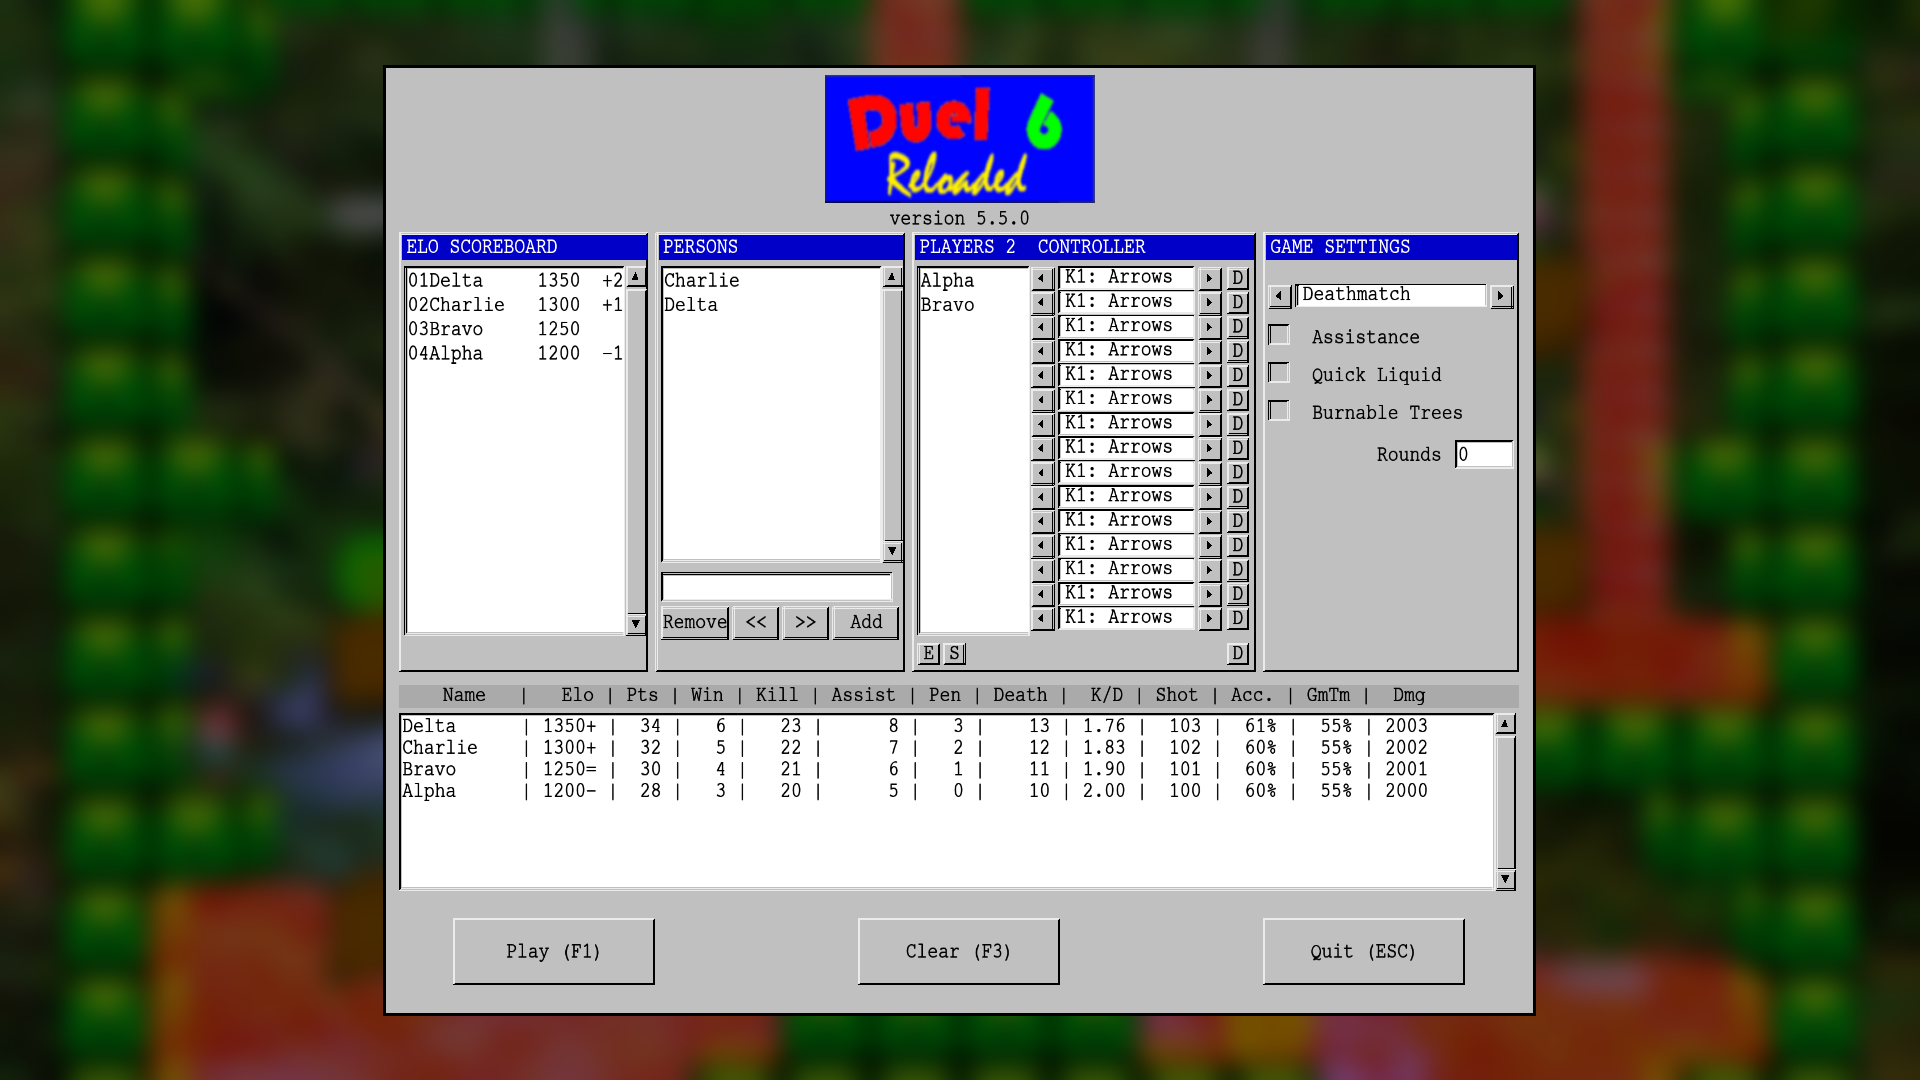
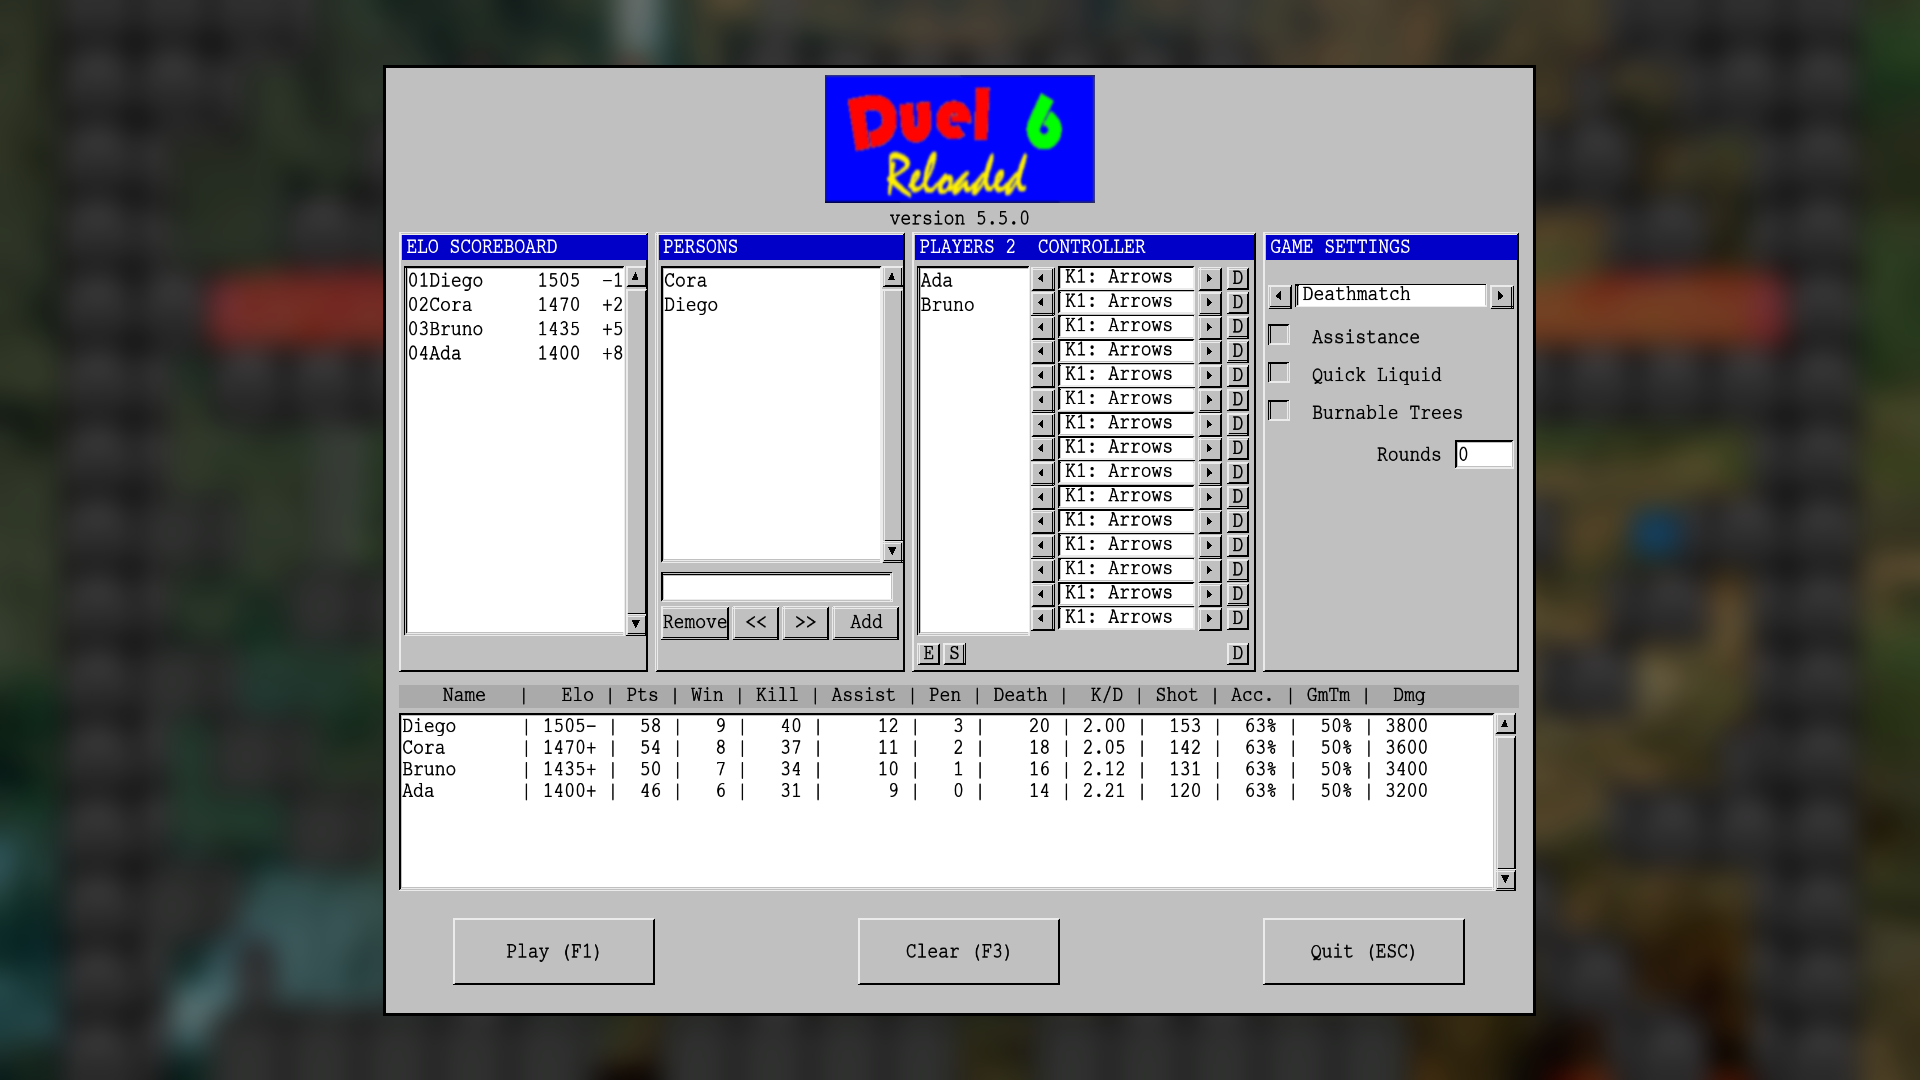
Docs: Recapture async menu screenshots

diff --git a/docs/screenshots/README.md b/docs/screenshots/README.md
@@ -6,9 +6,8 @@ This manifest requires exactly one representative implementation screenshot for 
 The 2026-08-26 approved menu presentation affects `MENU-01`, `MENU-02`, and `CONS-01`.
 It preserves the retro logical layout while adding uniform responsive scaling, a session-persistent blurred and scrimmed gameplay still, and a canvas keyline.
 The previously conforming `MENU-01/default-1706x938.png`, `MENU-02/confirmation-1706x938.png`, and `CONS-01/open-1706x938.png` artifacts are now stale historical evidence and are not representative matrix artifacts.
-`SS-001`, `SS-002`, and `SS-013` require replacement captures at 1920 by 1080 from one application session.
+`SS-001`, `SS-002`, and `SS-013` were recaptured at 1920 by 1080 in one application session against the current asynchronous background implementation and await UX assessment.
 The other eight representative screenshots remain current because gameplay presentation is unchanged.
-UX assessed the three 1920 by 1080 replacement captures and confirmed that the visual gate is satisfied.
 The obsolete `PLAY-02`, `PLAY-03`, and `PLAY-04` artifacts are not evidence and are not in this manifest.
 
 ## Provenance requirements
@@ -66,19 +65,20 @@ The PR #23 Burnable Trees packet has this provenance:
 - Artifact paths: `MENU-01/default-1706x938.png`, `MENU-02/confirmation-1706x938.png`, and `CONS-01/open-1706x938.png` under this directory.
 - Status: stale after the 2026-08-26 menu presentation approval; retained only as historical evidence.
 
-The approved scaled-background replacement packet was captured with this shared setup:
+The current scaled-background replacement packet was captured with this shared setup:
 
 - Branch: `feature/menu-presentation`.
-- Implementation source SHA: `52ebf231d125369789e785cf9df34e3ae44c7987`.
+- Implementation source SHA: `b7fea416527b418d8fbe7125e646e3f904c0c360`.
 - Environment: Release, GL4, Lua enabled, Ubuntu 24.04 Docker image, Mesa software rendering, and Xvfb at 1920 by 1080.
-- Runtime setup: one application session with four saved people, two selected players, persistent score data, Deathmatch, Assistance on, Quick Liquid on, Burnable Trees on, and Rounds `0`.
-- Session workflow: capture `MENU-01`, press F3 or select Clear for `MENU-02`, dismiss with `N`, then open the console for `CONS-01`, without restarting.
+- Viewport: 1920 by 1080 px.
+- Runtime setup: one application session with saved people Ada, Bruno, Cora, and Diego; Ada and Bruno selected; persistent Elo and score data; Deathmatch; Assistance on; Quick Liquid on; Burnable Trees on; and Rounds `0`.
+- Session workflow: the first observable menu render showed the responsive menu over the black loading background; F3 input produced the confirmation while asynchronous preparation completed, changing 985723 pixels from the initial capture. After dismissing with `N` and waiting for the selected background diagnostic, capture `MENU-01`, press F3 for `MENU-02`, dismiss with `N`, then open the console with an empty input for `CONS-01`, without restarting.
 - Worktree state: clean at the implementation source SHA before capture; the ignored Docker-built runtime bundle was present.
-- Session identifier: `MENU-PRESENTATION-20260826-A`.
-- Selected asset filename: `jungle-channel.png`, identified through the non-user-facing menu startup diagnostic and verified against the visible color family.
+- Session identifier: `MENU-PRESENTATION-20260826-B`.
+- Selected asset filename: `forest-foundry.png`, recorded by the visible menu startup diagnostic in `CONS-01`.
 - Runtime asset manifest revision: `81e364c8477c1b1cdbe90563812a90592d12cfea`.
 - Capture artifacts: `MENU-01/default-scaled-background-1920x1080.png`, `MENU-02/confirmation-scaled-background-1920x1080.png`, and `CONS-01/open-scaled-background-1920x1080.png` under this directory.
-- Assessment status: UX assessed the replacement packet and confirmed conformance.
+- Assessment status: recaptured against the current implementation; independent UX assessment is pending.
 
 The fresh shared-arena packet has this provenance:
 
@@ -103,8 +103,8 @@ The replacement shared-arena artifacts have this provenance:
 
 | ID | Screen ID | Wireframe | Route or workflow | Representative state and setup data | Viewport | Expected visible behavior | Destination path | Provenance and status |
 |---|---|---|---|---|---:|---|---|---|
-| <a id="ss-001"></a>`SS-001` | `MENU-01` | [Main menu](../screens/wireframes/menu-main.md) | Launch the local application to the setup menu. | Use four saved people, two selected players, Deathmatch, persistent score data, Assistance on, Quick Liquid on, Burnable Trees on, and Rounds `0`. | 1920x1080 | The logical canvas must render centered at the 135% cap over a blurred centered-cover gameplay still with a 55% black scrim. The grey canvas and 2-logical-pixel black keyline must remain distinct and unblurred. All menu content and bounds must scale together. | `docs/screenshots/MENU-01/default-scaled-background-1920x1080.png` | Captured in session `MENU-PRESENTATION-20260826-A` with `jungle-channel.png`; provenance above. UX confirmed the replacement packet. `Conforms`. |
-| <a id="ss-002"></a>`SS-002` | `MENU-02` | [Menu message](../screens/wireframes/menu-message.md) | Select Clear or press F3 from the populated menu in the same `SS-001` session. | Use the `SS-001` setup and show `Really delete? (Y/N)` over the unchanged menu. | 1920x1080 | The same image and scaled menu must remain unchanged behind the centered strip. The short confirmation must stay on one line and scale with the menu. | `docs/screenshots/MENU-02/confirmation-scaled-background-1920x1080.png` | Captured in session `MENU-PRESENTATION-20260826-A` with `jungle-channel.png`; provenance above. UX confirmed the replacement packet. `Conforms`. |
+| <a id="ss-001"></a>`SS-001` | `MENU-01` | [Main menu](../screens/wireframes/menu-main.md) | Launch the local application to the setup menu. | Use four saved people, two selected players, Deathmatch, persistent score data, Assistance on, Quick Liquid on, Burnable Trees on, and Rounds `0`. | 1920x1080 | The logical canvas must render centered at the 135% cap over a blurred centered-cover gameplay still with a 55% black scrim. The grey canvas and 2-logical-pixel black keyline must remain distinct and unblurred. All menu content and bounds must scale together. | `docs/screenshots/MENU-01/default-scaled-background-1920x1080.png` | Captured in session `MENU-PRESENTATION-20260826-B` with `forest-foundry.png`; provenance above. Independent UX assessment is pending. `Pending assessment`. |
+| <a id="ss-002"></a>`SS-002` | `MENU-02` | [Menu message](../screens/wireframes/menu-message.md) | Select Clear or press F3 from the populated menu in the same `SS-001` session. | Use the `SS-001` setup and show `Really delete? (Y/N)` over the unchanged menu. | 1920x1080 | The same image and scaled menu must remain unchanged behind the centered strip. The short confirmation must stay on one line and scale with the menu. | `docs/screenshots/MENU-02/confirmation-scaled-background-1920x1080.png` | Captured in session `MENU-PRESENTATION-20260826-B` with `forest-foundry.png`; provenance above. Independent UX assessment is pending. `Pending assessment`. |
 | <a id="ss-003"></a>`SS-003` | `PLAY-01` | [Shared arena play](../screens/wireframes/play-fullscreen.md) | Start a local Deathmatch and press F2 once during live play. | Use 15 living players, ranking on, a finite round limit, and a state after the start fade. | 1280x900 | One undivided arena must show the whole level and all 15 players. F2 must not change the view. Live ranking, round progress, event messages, and player status must remain available. | `docs/screenshots/PLAY-01/shared-15-player-1280x900.png` | Replacement packet provenance above. Captured from an actual 15-player Deathmatch with ranking enabled and three rounds after pressing F2 once. `Conforms`. |
 | <a id="ss-007"></a>`SS-007` | `MODE-01` | [Predator](../screens/wireframes/mode-predator.md) | Start Predator from the menu. | Use three living players, one predator, ranking on, and a finite round limit. | 1280x900 | One undivided arena must show the faint predator body, visible predator weapon, opaque marines, live ranking, round progress, events, and status cues. | `docs/screenshots/MODE-01/shared-live-1280x900.png` | Fresh shared-arena packet provenance above. `Conforms`. |
 | <a id="ss-008"></a>`SS-008` | `MODE-02` | [Team mode](../screens/wireframes/mode-team.md) | Start `Team deathmatch (2 teams, FF: off)` from the menu. | Use two living players per team, ranking on, and a finite round limit. | 1280x900 | One undivided arena must show all four players. Team apparel and named grouped ranking must remain visible with events, status cues, and round progress. | `docs/screenshots/MODE-02/shared-live-1280x900.png` | Replacement packet provenance above. Captured from an actual four-player `Team deathmatch (2 teams, FF: off)` with two players per team, grouped live ranking, and three rounds. `Conforms`. |
@@ -112,19 +112,19 @@ The replacement shared-arena artifacts have this provenance:
 | <a id="ss-010"></a>`SS-010` | `OVER-01` | [Score tab](../screens/wireframes/overlay-score-tab.md) | Press Tab during a live Team deathmatch round. | Use four players in two teams with non-zero K, A, D, K/D, and PTS values. | 1280x900 | The centered score panel must show grouped team rows over one undivided live arena. The winner curtain must not appear. | `docs/screenshots/OVER-01/shared-score-tab-1280x900.png` | Replacement packet provenance above. Captured by pressing Tab during round 5 of an actual four-player Team deathmatch after normal runtime play produced grouped team rows and non-zero K, A, D, K/D, and PTS values; no winner curtain is present. `Conforms`. |
 | <a id="ss-011"></a>`SS-011` | `OVER-02` | [Round over](../screens/wireframes/overlay-round-over.md) | Finish round 1 of a two-round Predator match. | Use one winning predator and three ranked players. | 1280x900 | The Predator outcome message, dark red curtain, round counter, and centered score panel must appear over one undivided arena. | `docs/screenshots/OVER-02/shared-round-over-1280x900.png` | Replacement packet provenance above. Captured after an actual predator won round 1 of a two-round, three-player Predator match; the runtime emitted `Predator won!` and opened the score panel and curtain. `Conforms`. |
 | <a id="ss-012"></a>`SS-012` | `OVER-03` | [Game over](../screens/wireframes/overlay-game-over.md) | Finish the only round of a one-round Team deathmatch. | Use two teams, four ranked players, and one winning team. | 1280x900 | The Team outcome, final score panel, dark red curtain, and final round progress must appear over one undivided arena. The state must not add an exit label. | `docs/screenshots/OVER-03/shared-game-over-1280x900.png` | Replacement packet provenance above. Captured after Team Bravo won the only round of an actual four-player Team deathmatch; the final grouped score panel, dark red curtain, and `1 | 1` round progress are visible without an exit label. `Conforms`. |
-| <a id="ss-013"></a>`SS-013` | `CONS-01` | [Console over menu](../screens/wireframes/console-menu.md) | Open the console in the same `SS-001` session after dismissing the confirmation. | Use the `SS-001` setup, recent startup output, and an empty input line. | 1920x1080 | The console must span the complete client width at client scale. The same scaled menu and selected blurred/scrimmed still must remain visible below it. | `docs/screenshots/CONS-01/open-scaled-background-1920x1080.png` | Captured in session `MENU-PRESENTATION-20260826-A` with `jungle-channel.png`; provenance above. UX confirmed the replacement packet. `Conforms`. |
+| <a id="ss-013"></a>`SS-013` | `CONS-01` | [Console over menu](../screens/wireframes/console-menu.md) | Open the console in the same `SS-001` session after dismissing the confirmation. | Use the `SS-001` setup, recent startup output, and an empty input line. | 1920x1080 | The console must span the complete client width at client scale. The same scaled menu and selected blurred/scrimmed still must remain visible below it. | `docs/screenshots/CONS-01/open-scaled-background-1920x1080.png` | Captured in session `MENU-PRESENTATION-20260826-B` with `forest-foundry.png`; provenance above. Independent UX assessment is pending. `Pending assessment`. |
 | <a id="ss-014"></a>`SS-014` | `CONS-02` | [Console over play](../screens/wireframes/console-gameplay.md) | Open the console during active Deathmatch and enter or inspect any command that previously affected the gameplay view. | Use four living players, ranking on, a finite round limit, and recent game output. | 1280x900 | The console must overlay one undivided arena. The command must not create player-specific views. The simulation, ranking, round progress, events, and status state must remain present behind the console where visible. | `docs/screenshots/CONS-02/shared-open-1280x900.png` | Fresh shared-arena packet provenance above. `Conforms`. |
 
 ## Coverage
 
 - Required wireframes: 11.
 - Required representative screenshots: 11.
-- Conforming screenshots: 11.
+- Conforming screenshots: 8.
 - Non-conforming screenshots: 0.
-- Pending screenshot assessments: 0.
+- Pending screenshot assessments: 3.
 - Screenshots per wireframe: exactly one.
 - Retired screenshot matrix entries: `SS-004`, `SS-005`, and `SS-006`.
-- Coverage status: all 11 representative screenshots conform.
+- Coverage status: all 11 representative artifacts exist; eight unchanged gameplay screenshots conform and three current menu captures await independent UX assessment.
 
 The matrix uses one representative state for each wireframe.
 The screen specifications and wireframes document other player counts, modes, interaction states, and accessibility limits without multiplying screenshot entries.
